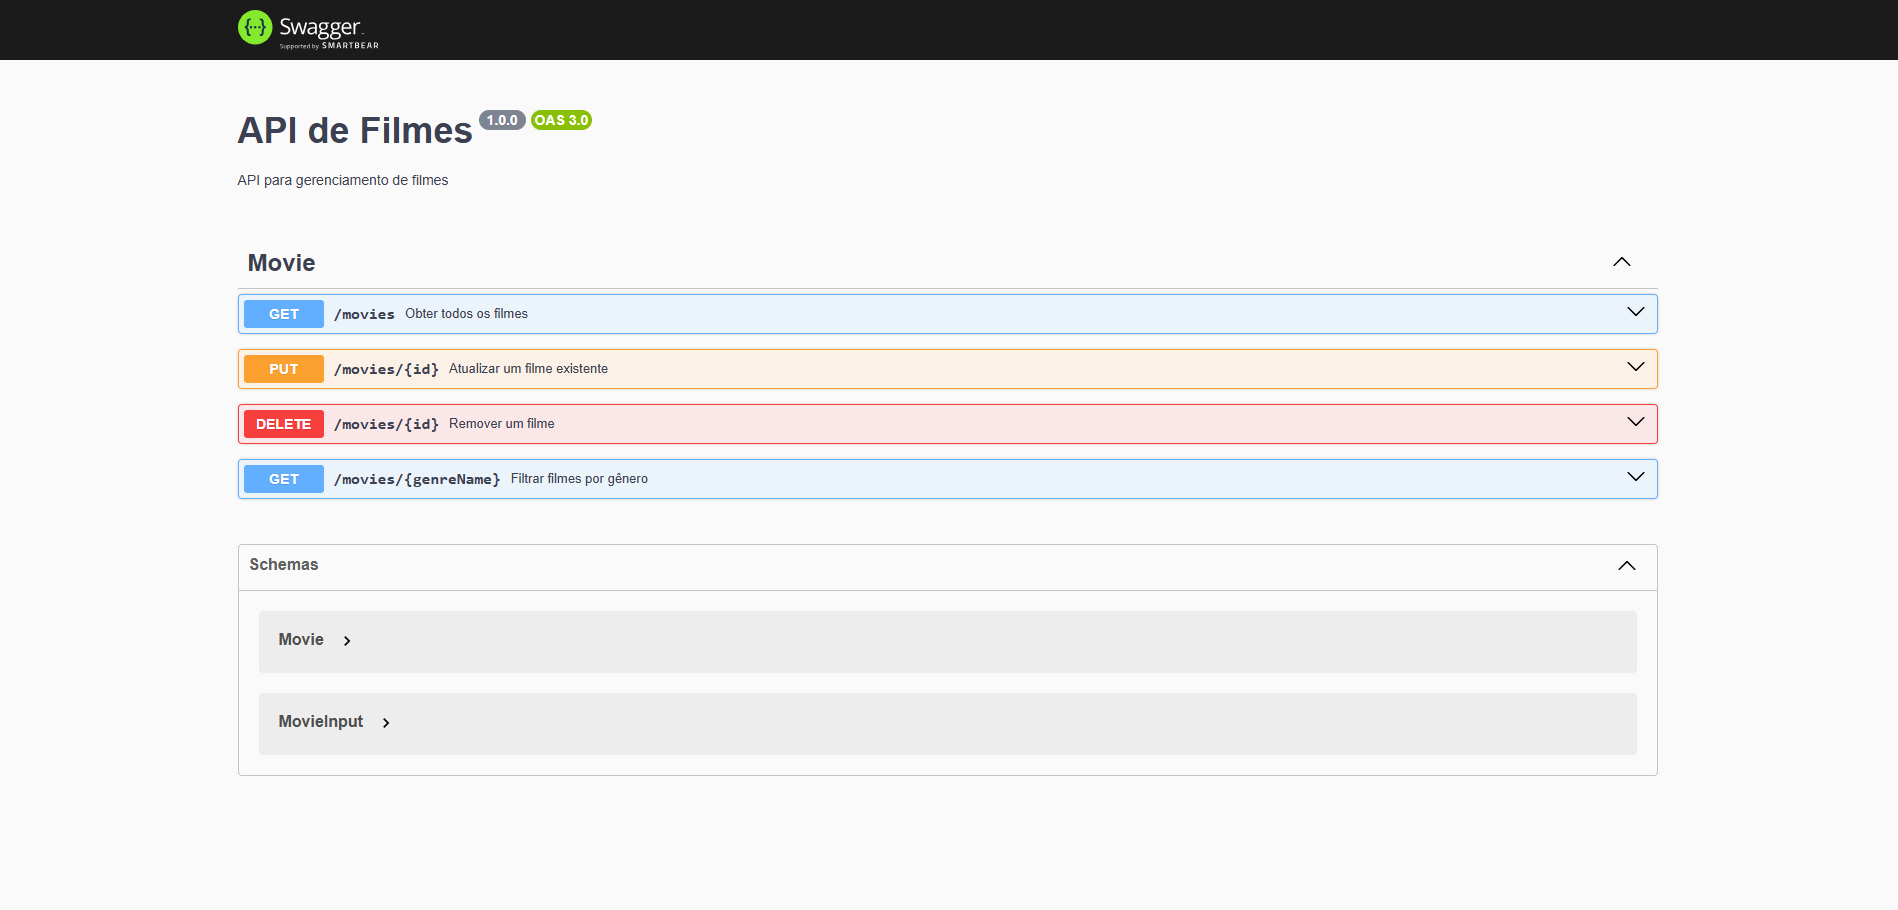
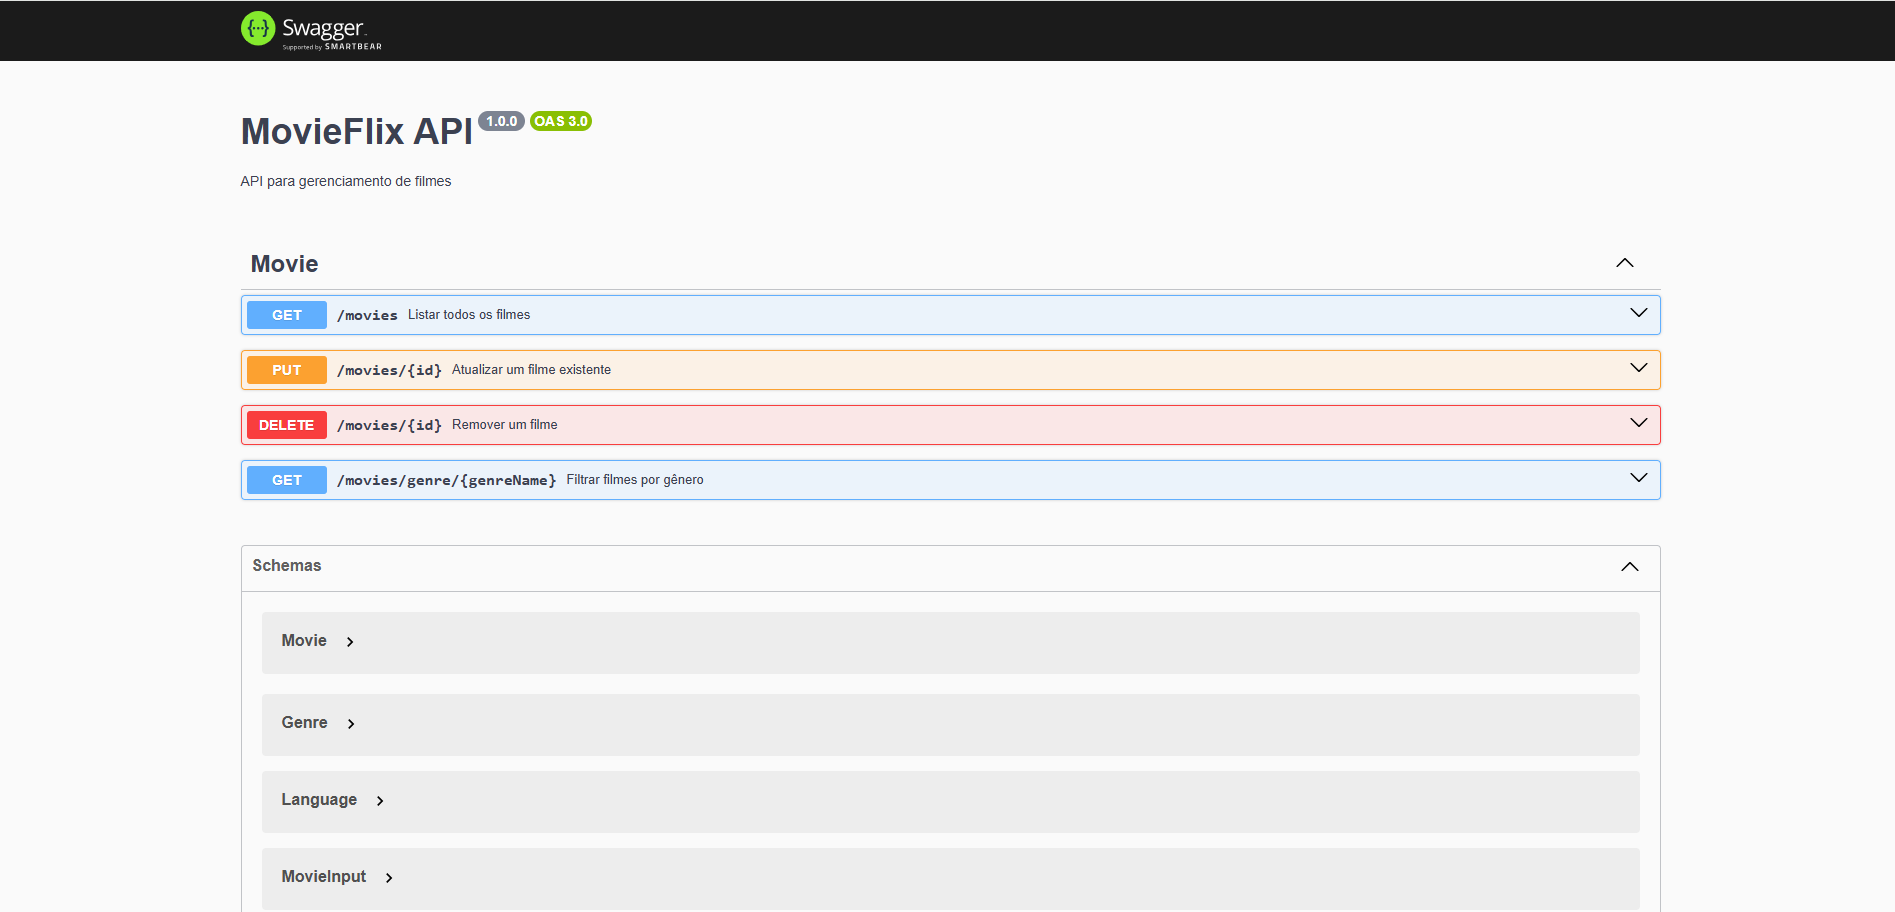
Atualiza documentação da API e exemplos no README

diff --git a/README.md b/README.md
@@ -87,71 +87,17 @@ Acesse a documentação interativa através de:
 
 | Método   | Rota                | Descrição                |
 |----------|---------------------|--------------------------|
-| **GET**  | `/movies`           | Lista todos os filmes    |
-| **POST** | `/movies`           | Cadastra um novo filme   |
-| **GET**  | `/movies/:genreName`| Filtra filmes por gênero |
-| **PUT**  | `/movies/:id`       | Atualiza um filme        |
-| **DELETE** | `/movies/:id`     | Remove um filme          |
+| **GET**    | `/movies`                   | Listar todos os filmes         |
+| **PUT**    | `/movies/{id}`              | Atualizar um filme existente   |
+| **DELETE** | `/movies/{id}`              | Remover um filme              |
+| **GET**    | `/movies/{genreName}` | Filtrar filmes por gênero      |
+
 
 ---
 
 ## 📦 Exemplos de Requisição e Resposta
 
-### POST /movies
-**Requisição:**
-```json
-{
-	"title": "O Poderoso Chefão",
-	"genre_id": 1,
-	"language_id": 1,
-	"oscar_count": 3,
-	"release_date": "1972-03-24"
-}
-```
-**Resposta de sucesso:**
-```json
-{
-	"id": 10,
-	"title": "O Poderoso Chefão",
-	"genre_id": 1,
-	"language_id": 1,
-	"oscar_count": 3,
-	"release_date": "1972-03-24T00:00:00.000Z"
-}
-```
 
-### GET /movies
-**Resposta:**
-```json
-[
-	{
-		"id": 1,
-		"title": "Matrix",
-		"genre": { "id": 1, "name": "Ação" },
-		"language": { "id": 1, "name": "Português" },
-		"oscar_count": 4,
-		"release_date": "1999-03-31T00:00:00.000Z"
-	}
-]
-```
-
-### PUT /movies/:id
-**Requisição:**
-```json
-{
-	"title": "Matrix Reloaded",
-	"oscar_count": 0
-}
-```
-**Resposta de sucesso:**
-Status 200
-
-### DELETE /movies/:id
-**Resposta de sucesso:**
-Status 200
-```json
-{ "message": "Filme deletado com sucesso" }
-```
 
 ---
 
